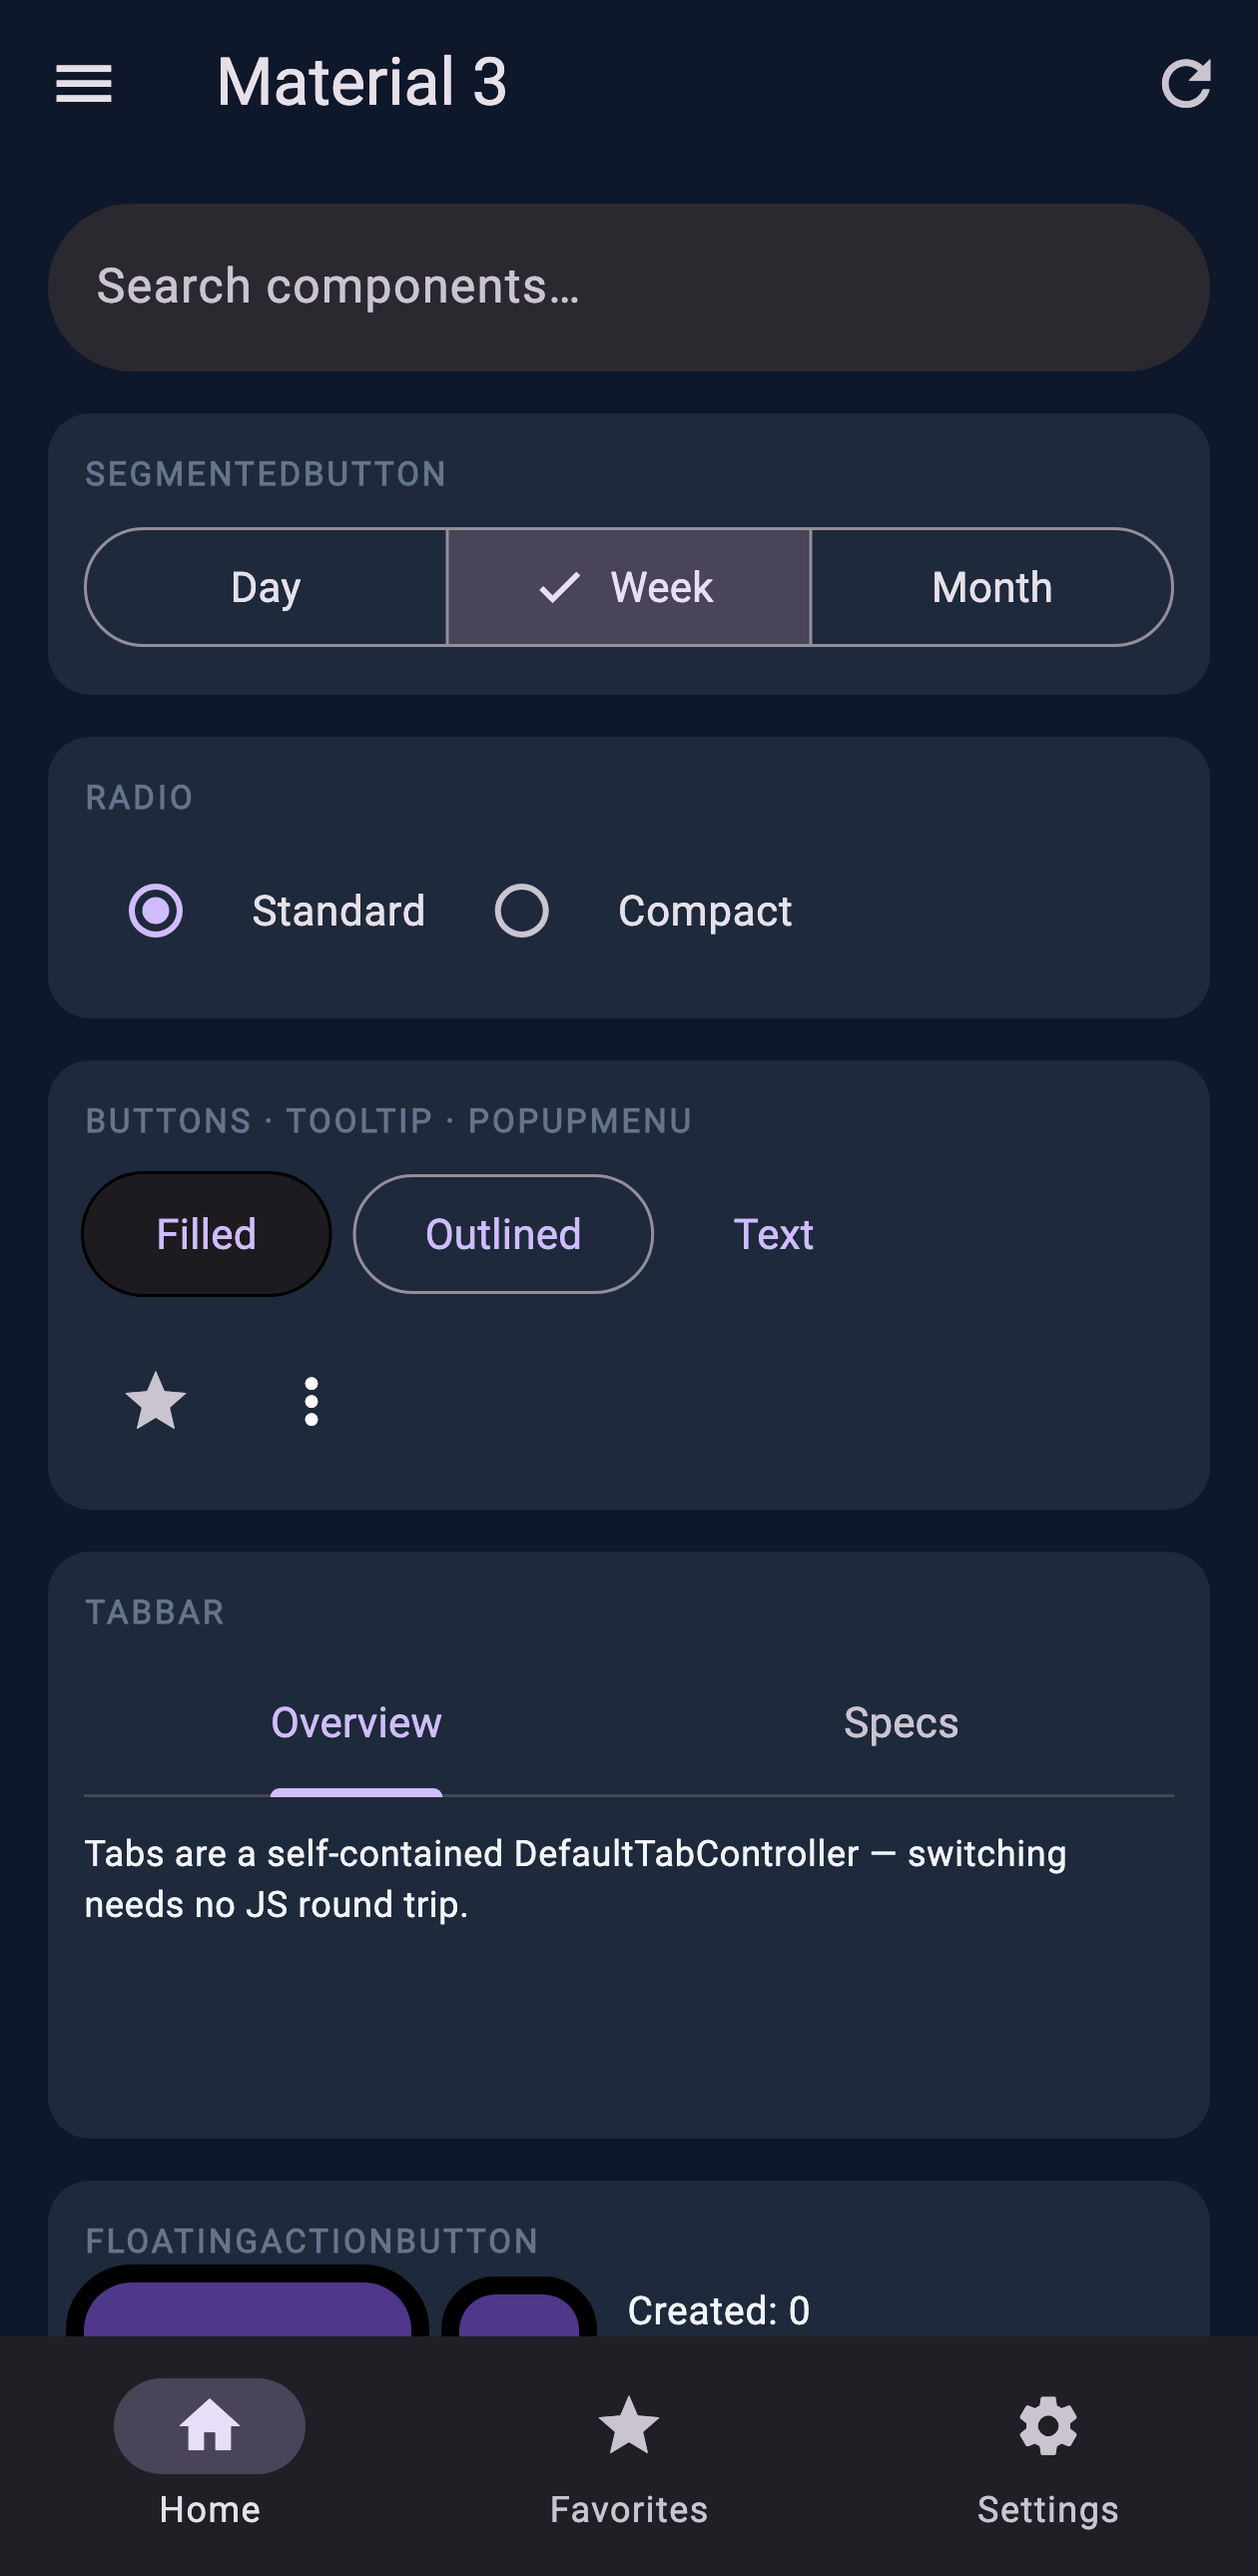
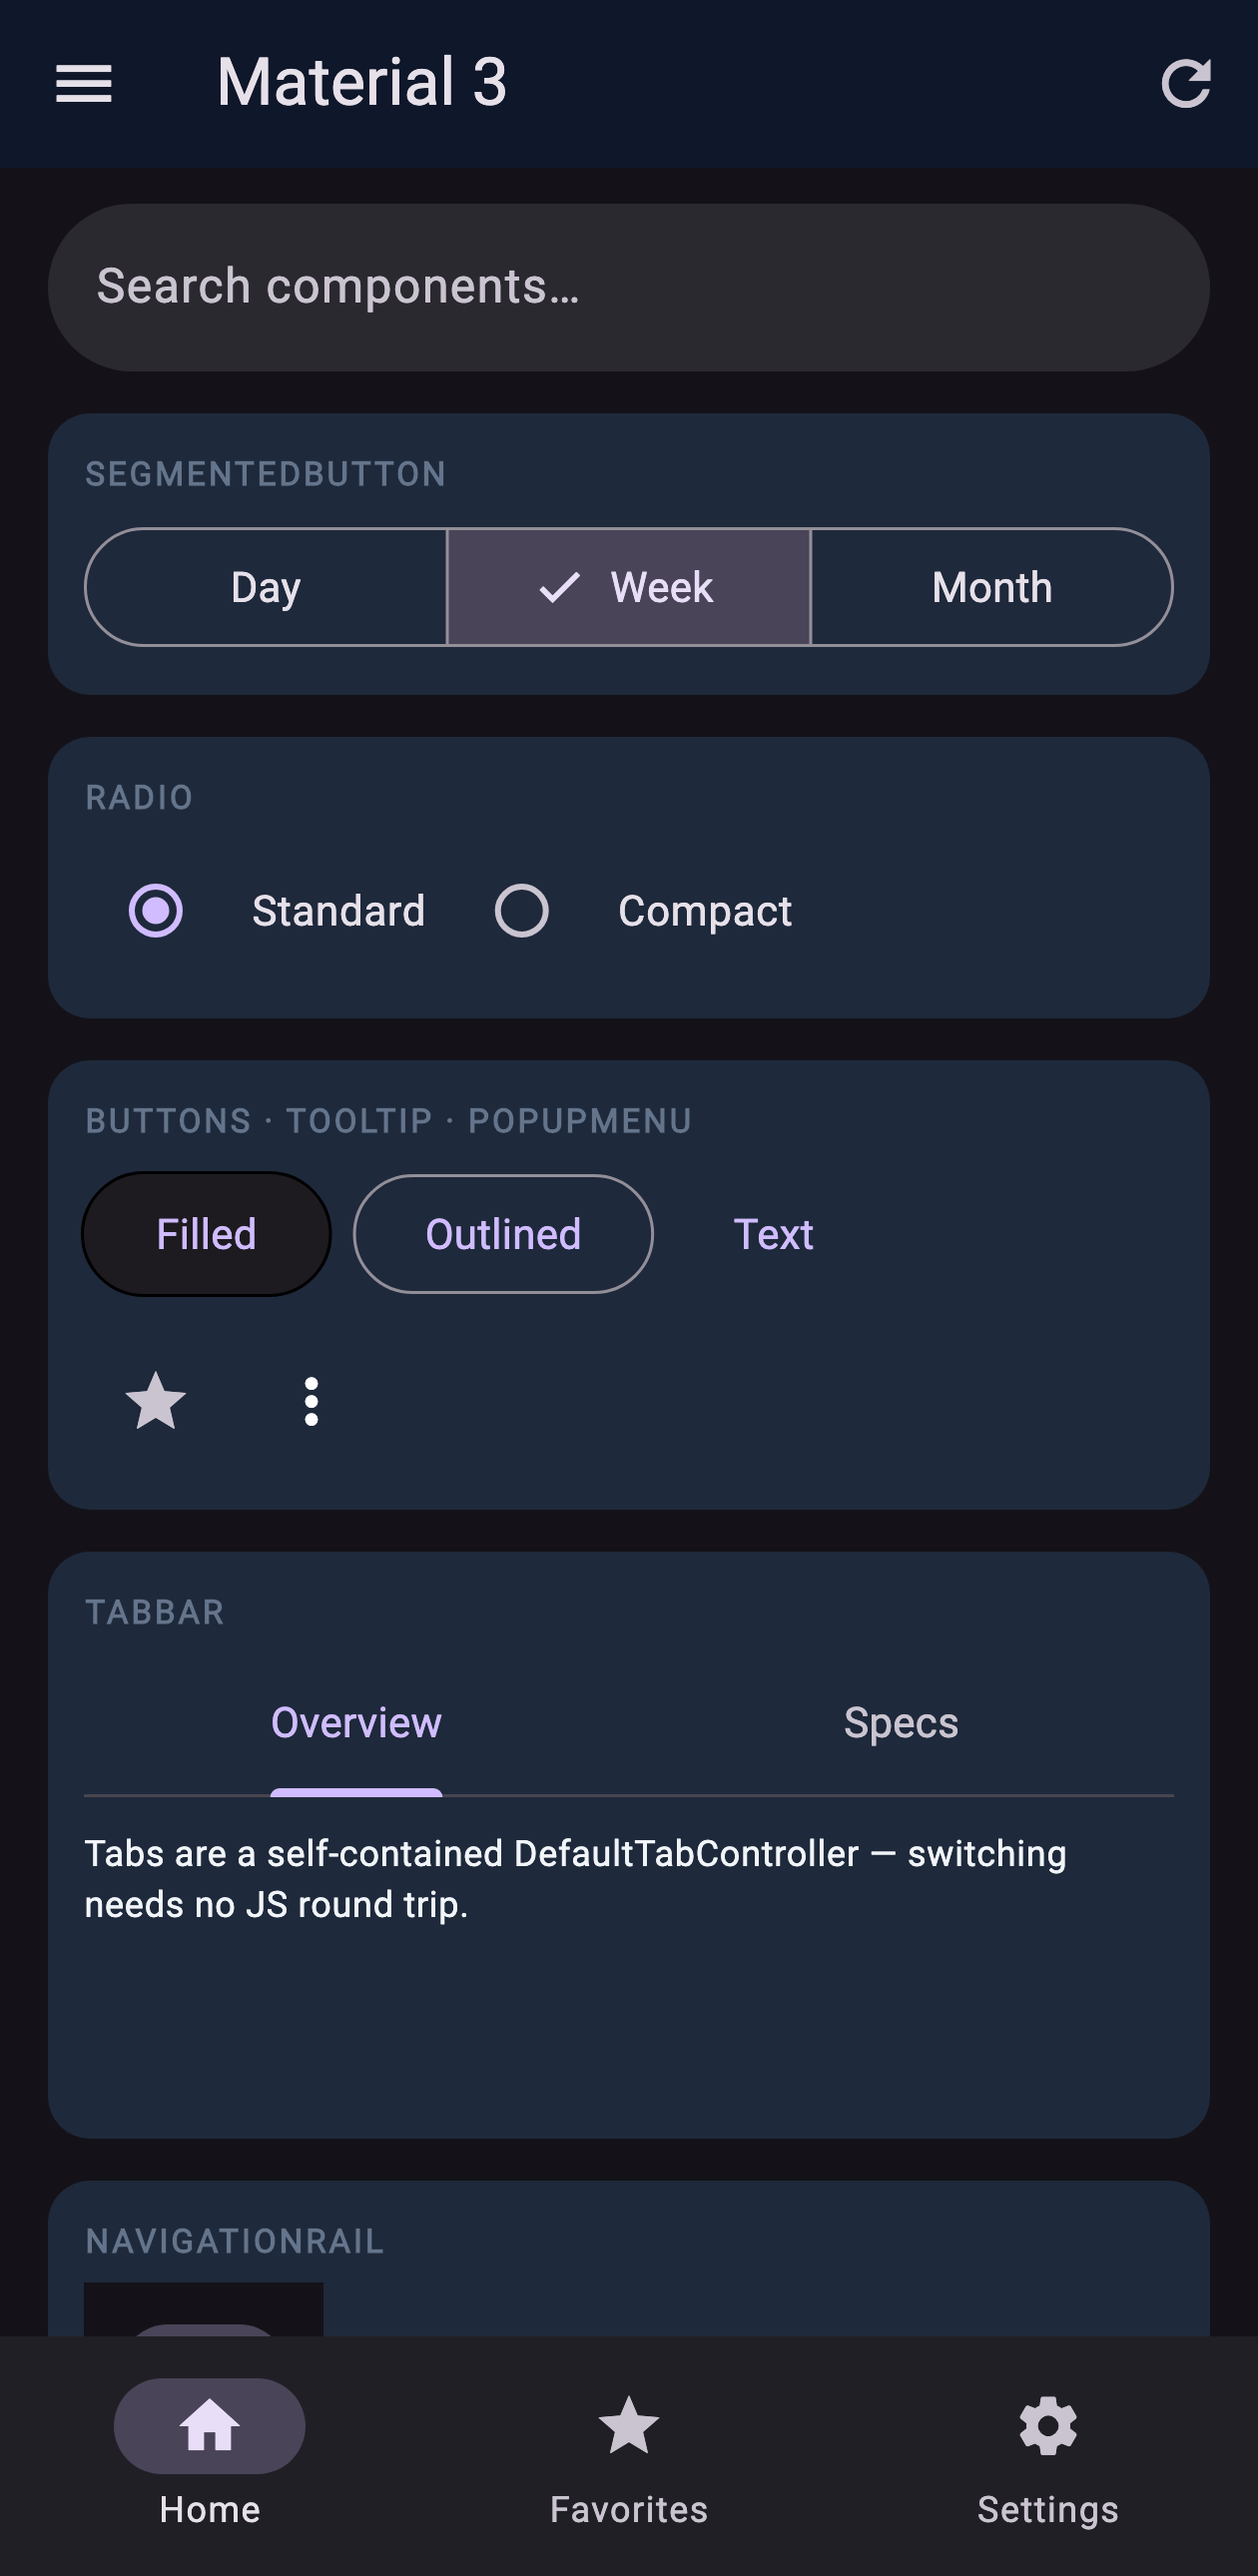
m3-showcase: demo drawer, navigationRail, carousel, bottomAppBar
- Root tree wrapped in a drawer node (nested Scaffold) — the appBar now
  gets a working hamburger; drawer menu has Home/Components/About/Reset
- New sections: navigationRail (rail_changed state), carousel (accent
  cards), bottomAppBar (inline action bar)
- Manifest description + CLI events (rail_changed, drawer_item)
- Logic tests for rail/drawer handlers; goldens regenerated and copied
  to doc/widgets

Changed region(s): [[0.0619, 0.8682, 0.4643, 0.9302], [0.5571, 0.8682, 0.5881, 0.8992]]

diff --git a/example/widgets/m3-showcase/widget.js b/example/widgets/m3-showcase/widget.js
@@ -7,11 +7,12 @@
   var state = {
     banner: true,
     nav: 0,
+    rail: 0,
     seg: 'week',
     radio: 'standard',
     created: 0,
     lastMenu: null,
-    overlay: null // null | 'sheet' | 'dialog' | 'snack'
+    overlay: null // null | 'sheet' | 'dialog' | 'snack' | 'date' | 'time'
   };
 
   var SEGMENTS = ['day', 'week', 'month'];
@@ -28,6 +29,39 @@
       decoration: { color: t.surface, borderRadius: 14, border: { color: t.border } },
       child: { type: 'column', crossAxisAlignment: 'stretch', mainAxisSize: 'min',
         children: children } };
+  }
+
+  function drawerNode(t) {
+    function item(icon, label, payload) {
+      return {
+        type: 'listTile',
+        leading: { type: 'icon', icon: icon, color: t.muted },
+        title: label,
+        dense: true,
+        onTap: 'drawer_item',
+        payload: { value: payload }
+      };
+    }
+    return {
+      type: 'container',
+      color: t.surface,
+      child: {
+        type: 'column',
+        crossAxisAlignment: 'stretch',
+        children: [
+          { type: 'padding', padding: [16, 20, 16, 8], child: {
+            type: 'text', data: '🧩 M3 Showcase',
+            style: { color: t.text, fontSize: 16, fontWeight: 'w700' }
+          } },
+          { type: 'divider', color: t.border },
+          item('home', 'Home', 'home'),
+          item('widgets', 'Components', 'components'),
+          item('info', 'About', 'about'),
+          { type: 'divider', color: t.border },
+          item('refresh', 'Reset demo', 'reset')
+        ]
+      }
+    };
   }
 
   function overlayNode(t) {
@@ -83,10 +117,13 @@
   function render() {
     var t = jsr.theme;
     jsr.exportState({
-      nav: state.nav, seg: state.seg, radio: state.radio,
+      nav: state.nav, rail: state.rail, seg: state.seg, radio: state.radio,
       created: state.created, banner: state.banner, lastMenu: state.lastMenu
     });
     jsr.render({
+      type: 'drawer',
+      drawer: drawerNode(t),
+      child: {
       type: 'column',
       crossAxisAlignment: 'stretch',
       children: [
@@ -95,7 +132,8 @@
           type: 'appBar',
           title: 'Material 3',
           color: t.bg,
-          leading: { icon: 'menu', onTap: 'noop' },
+          // No explicit leading: the drawer node's nested Scaffold makes
+          // AppBar show the hamburger automatically.
           actions: [
             { icon: 'refresh', tooltip: 'Reset', onTap: 'reset' }
           ]
@@ -211,6 +249,78 @@
                   }
                 ]),
                 card(t, [
+                  caption(t, 'NAVIGATIONRAIL'),
+                  {
+                    type: 'container',
+                    height: 190,
+                    child: {
+                      type: 'row',
+                      children: [
+                        {
+                          type: 'navigationRail',
+                          selectedIndex: state.rail,
+                          onChanged: 'rail_changed',
+                          destinations: [
+                            { icon: 'home', label: 'Home' },
+                            { icon: 'favorite', label: 'Favorites' },
+                            { icon: 'settings', label: 'Settings' }
+                          ]
+                        },
+                        {
+                          type: 'expanded',
+                          child: {
+                            type: 'center',
+                            child: {
+                              type: 'text',
+                              data: 'Rail destination #' + state.rail + ' — same destinations API as navigationBar.',
+                              style: { color: t.muted, fontSize: 12 }
+                            }
+                          }
+                        }
+                      ]
+                    }
+                  }
+                ]),
+                card(t, [
+                  caption(t, 'CAROUSEL'),
+                  {
+                    type: 'container',
+                    height: 150,
+                    child: {
+                      type: 'carousel',
+                      itemExtent: 170,
+                      children: [
+                        { type: 'container', margin: [0, 4, 0, 4], decoration: { color: t.accent, borderRadius: 14 }, child: { type: 'center', child: { type: 'text', data: 'One', style: { color: t.onAccent, fontSize: 16, fontWeight: 'w700' } } } },
+                        { type: 'container', margin: [0, 4, 0, 4], decoration: { color: t.accent2, borderRadius: 14 }, child: { type: 'center', child: { type: 'text', data: 'Two', style: { color: t.onAccent, fontSize: 16, fontWeight: 'w700' } } } },
+                        { type: 'container', margin: [0, 4, 0, 4], decoration: { color: t.surfaceAlt, borderRadius: 14, border: { color: t.borderBright } }, child: { type: 'center', child: { type: 'text', data: 'Three', style: { color: t.text, fontSize: 16, fontWeight: 'w700' } } } },
+                        { type: 'container', margin: [0, 4, 0, 4], decoration: { color: t.accent, borderRadius: 14 }, child: { type: 'center', child: { type: 'text', data: 'Four', style: { color: t.onAccent, fontSize: 16, fontWeight: 'w700' } } } },
+                        { type: 'container', margin: [0, 4, 0, 4], decoration: { color: t.accent2, borderRadius: 14 }, child: { type: 'center', child: { type: 'text', data: 'Five', style: { color: t.onAccent, fontSize: 16, fontWeight: 'w700' } } } }
+                      ]
+                    }
+                  }
+                ]),
+                card(t, [
+                  caption(t, 'BOTTOMAPPBAR'),
+                  {
+                    type: 'bottomAppBar',
+                    color: t.surfaceAlt,
+                    height: 48,
+                    children: [
+                      { type: 'iconButton', icon: 'search', onTap: 'noop' },
+                      { type: 'iconButton', icon: 'star', onTap: 'noop' },
+                      { type: 'iconButton', icon: 'share', onTap: 'noop' },
+                      {
+                        type: 'expanded',
+                        child: {
+                          type: 'text',
+                          data: '  BottomAppBar inline — pairs with a fab in a real Scaffold.',
+                          style: { color: t.muted, fontSize: 11 }
+                        }
+                      }
+                    ]
+                  }
+                ]),
+                card(t, [
                   caption(t, 'FLOATINGACTIONBUTTON'),
                   {
                     type: 'row',
@@ -267,6 +377,7 @@
           ]
         }
       ]
+      }
     });
   }
 
@@ -287,6 +398,20 @@
       state.nav = payload && typeof payload.value === 'number'
         ? payload.value
         : (state.nav + 1) % 3;
+    }
+    if (name === 'rail_changed') {
+      state.rail = payload && typeof payload.value === 'number'
+        ? payload.value
+        : (state.rail + 1) % 3;
+    }
+    if (name === 'drawer_item') {
+      var pick = payload && payload.value ? String(payload.value) : null;
+      if (pick === 'reset') {
+        state.banner = true; state.nav = 0; state.rail = 0; state.seg = 'week';
+        state.radio = 'standard'; state.created = 0; state.lastMenu = null;
+      } else if (pick) {
+        state.lastMenu = 'drawer: ' + pick;
+      }
     }
     if (name === 'seg_changed') {
       state.seg = payload && typeof payload.value === 'string'

diff --git a/test/m3_showcase_logic_test.dart b/test/m3_showcase_logic_test.dart
@@ -46,6 +46,21 @@ void main() {
       expect(h.state!['nav'], 2);
     });
 
+    test('navigation rail changes destination', () async {
+      expect(h.state!['rail'], 0);
+      await h.callEvent('rail_changed', payload: {'value': 2});
+      expect(h.state!['rail'], 2);
+    });
+
+    test('drawer item is remembered, drawer reset restores defaults', () async {
+      await h.callEvent('drawer_item', payload: {'value': 'about'});
+      expect(h.state!['lastMenu'], 'drawer: about');
+      await h.callEvent('fab_tap');
+      await h.callEvent('drawer_item', payload: {'value': 'reset'});
+      expect(h.state!['created'], 0);
+      expect(h.state!['rail'], 0);
+    });
+
     test('segmented button changes selection', () async {
       await h.callEvent('seg_changed', payload: {'value': 'day'});
       expect(h.state!['seg'], 'day');

diff --git a/README.md b/README.md
@@ -34,7 +34,7 @@ Real JavaScript, rendered by this package and captured by [golden tests](test/go
 | ![M3: bottom sheet](doc/widgets/m3-sheet.png) | ![M3: dialog](doc/widgets/m3-dialog.png) |
 | ![charts showcase](doc/widgets/charts-showcase.png) | ![M3: date picker](doc/widgets/m3-date.png) |
 
-yolo-hello (animated gradient + bounce) · calculator (full keyboard logic in JS) · weather (wttr.in fetch) · stocks (live quotes) · crypto (price tickers) · map (OpenStreetMap landmarks) · animation-showcase (menu + per-scene captures from the interactive golden: fade / morph / bounce / cards / drag / pulse / colors) · 3d-showcase (procedural primitives, flutter_cube — shape variants under doc/widgets/3d-showcase-*.png) · 3d-game-dodge (dodge-the-blocks game) · 3d-glb-showcase (GLB model with PBR) · fitness-trainer (skeletal-coach workout, flame_3d) · m3-showcase (Material 3 nodes: appBar, banner, searchBar, segmentedButton, radio, tabBar, fab, popupMenu, navigationBar + overlays: bottomSheet, dialog, snackBar, datePicker, timePicker — extra state frames under doc/widgets/m3-*.png) · charts-showcase (fl_chart via the `flChart` node: line, bar, pie, radar, scatter)
+yolo-hello (animated gradient + bounce) · calculator (full keyboard logic in JS) · weather (wttr.in fetch) · stocks (live quotes) · crypto (price tickers) · map (OpenStreetMap landmarks) · animation-showcase (menu + per-scene captures from the interactive golden: fade / morph / bounce / cards / drag / pulse / colors) · 3d-showcase (procedural primitives, flutter_cube — shape variants under doc/widgets/3d-showcase-*.png) · 3d-game-dodge (dodge-the-blocks game) · 3d-glb-showcase (GLB model with PBR) · fitness-trainer (skeletal-coach workout, flame_3d) · m3-showcase (Material 3 nodes: drawer, appBar, banner, searchBar, segmentedButton, radio, navigationRail, carousel, bottomAppBar, tabBar, fab, popupMenu, navigationBar + overlays: bottomSheet, dialog, snackBar, datePicker, timePicker — extra state frames under doc/widgets/m3-*.png) · charts-showcase (fl_chart via the `flChart` node: line, bar, pie, radar, scatter)
 
 ## Web preview runner
 
